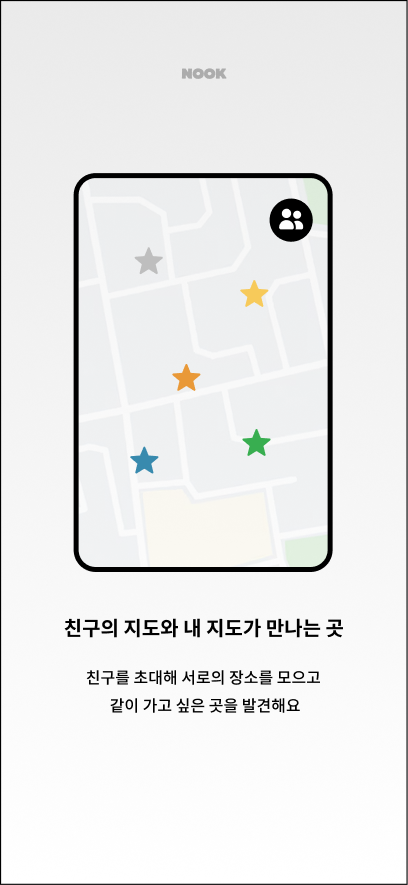
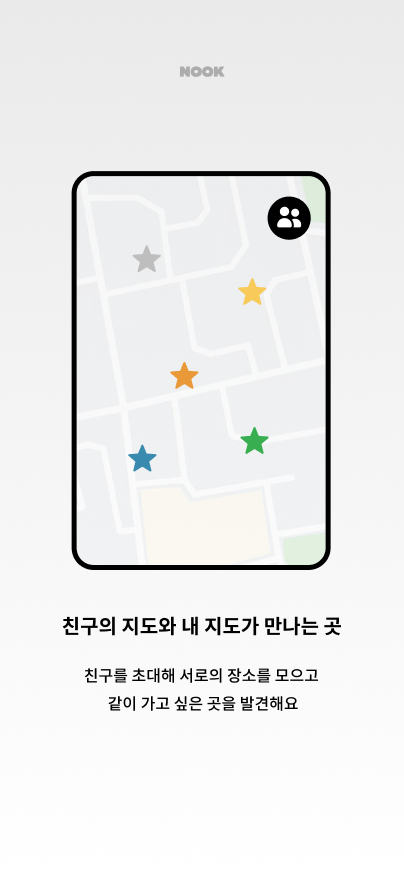
fix: remove onboarding slide edge artifacts
Crop slide assets to eliminate unintended outer border pixels and align image render dimensions so onboarding screens display cleanly.

diff --git a/src/app/onboarding/page.tsx b/src/app/onboarding/page.tsx
@@ -50,8 +50,8 @@ export default function OnboardingPage() {
               <Image
                 src={src}
                 alt="온보딩 화면"
-                width={406}
-                height={883}
+                width={404}
+                height={881}
                 priority={i === 0}
                 unoptimized
                 className="h-full w-auto object-contain"
